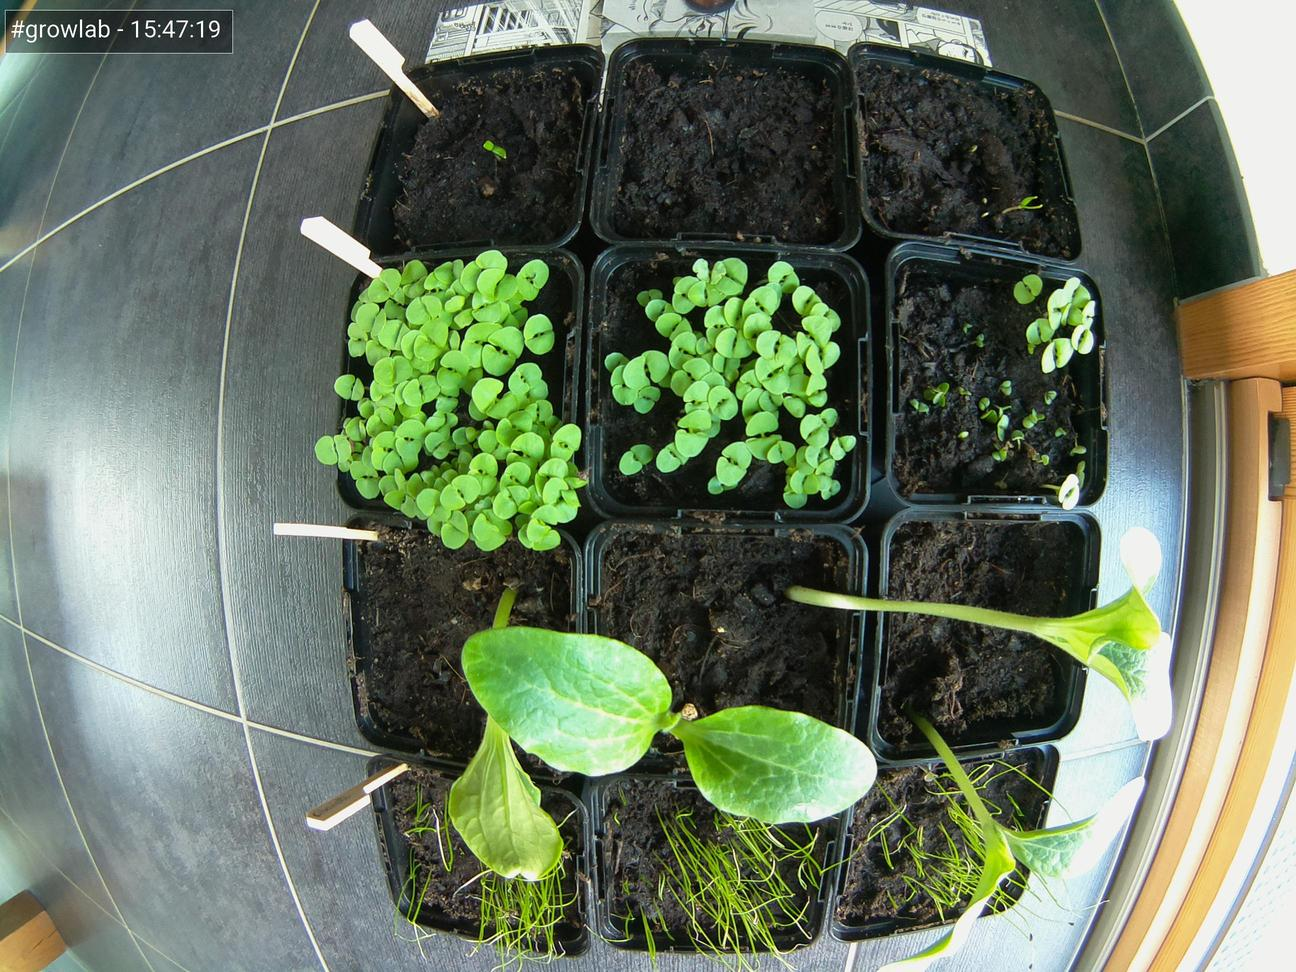
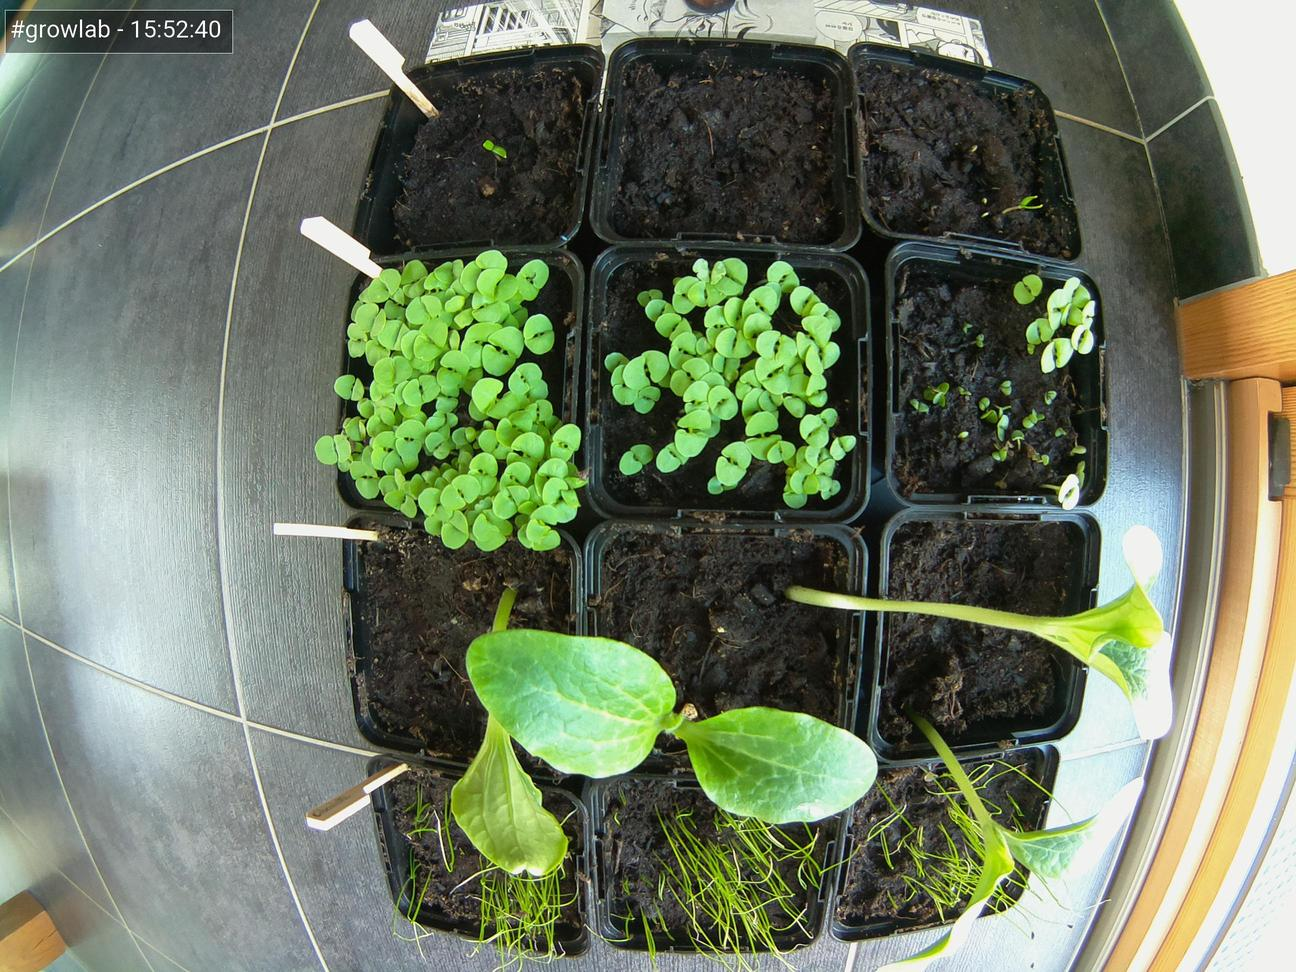
Update images at Thu 27 May 15:52:49 CEST 2021

diff --git a/index.html b/index.html
@@ -47,7 +47,7 @@
                         <tbody>
                             <tr>
                                 <td>Time</td>
-                                <td>15:47:19</td>
+                                <td>15:52:40</td>
                             </tr>
                             <tr>
                                 <td>Temperature</td>
@@ -67,7 +67,7 @@
 
                 <h5>Latest image</h5>
                 <div style="width: 85%;">
-                            <img class="figure-img img-fluid rounded" src="./preview.jpg?uid=1622123247.9292014">
+                            <img class="figure-img img-fluid rounded" src="./preview.jpg?uid=1622123569.1609907">
                 </div>
             </div>
         </div>
